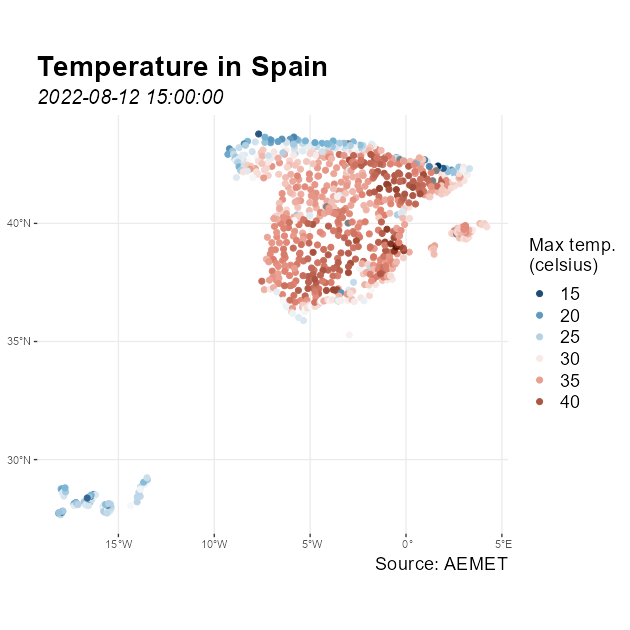
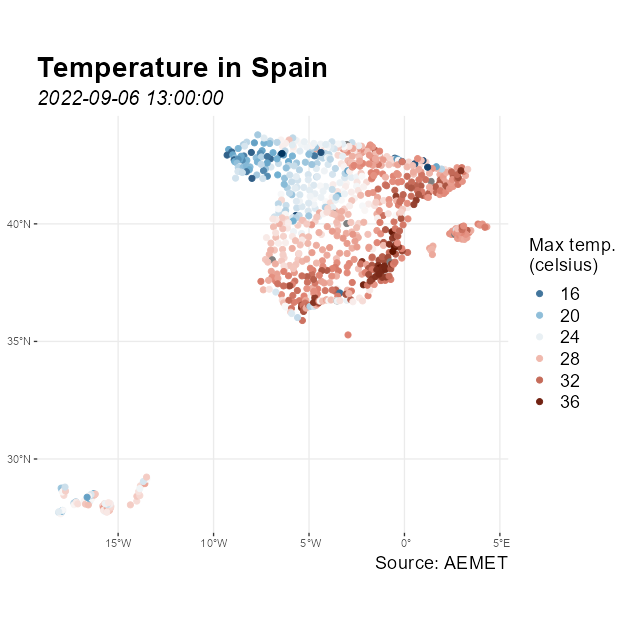
Article is back

diff --git a/README.md b/README.md
@@ -123,21 +123,20 @@ aemet_last_obs("9434")
 #> # A tibble: 24 × 25
 #>    idema   lon fint                 prec   alt  vmax    vv    dv   lat  dmax
 #>    <chr> <dbl> <dttm>              <dbl> <dbl> <dbl> <dbl> <dbl> <dbl> <dbl>
-#>  1 9434  -1.00 2022-08-12 15:00:00     0   249   5.7   2.7    79  41.7   100
-#>  2 9434  -1.00 2022-08-12 16:00:00     0   249   5.7   3.2   118  41.7    53
-#>  3 9434  -1.00 2022-08-12 17:00:00     0   249   6.4   3.6   111  41.7   120
-#>  4 9434  -1.00 2022-08-12 18:00:00     0   249   5.9   3      94  41.7   105
-#>  5 9434  -1.00 2022-08-12 19:00:00     0   249   6.9   4.2   139  41.7   150
-#>  6 9434  -1.00 2022-08-12 20:00:00     0   249   5.7   2.8   195  41.7   153
-#>  7 9434  -1.00 2022-08-12 21:00:00     0   249   5.2   2.1   165  41.7   115
-#>  8 9434  -1.00 2022-08-12 22:00:00     0   249   5.2   2.3   206  41.7   235
-#>  9 9434  -1.00 2022-08-12 23:00:00     0   249   4.9   2     296  41.7   128
-#> 10 9434  -1.00 2022-08-13 00:00:00     0   249   5.2   2.4   305  41.7   270
+#>  1 9434  -1.00 2022-09-06 13:00:00     0   249   8.4   3.8   252  41.7   235
+#>  2 9434  -1.00 2022-09-06 14:00:00     0   249   9.2   2.1   297  41.7   228
+#>  3 9434  -1.00 2022-09-06 15:00:00     0   249   9.7   5.7   250  41.7   235
+#>  4 9434  -1.00 2022-09-06 16:00:00     0   249  10.5   2.9   327  41.7   275
+#>  5 9434  -1.00 2022-09-06 17:00:00     0   249   4.8   1.8    11  41.7   303
+#>  6 9434  -1.00 2022-09-06 18:00:00     0   249   4.4   2.1   309  41.7    10
+#>  7 9434  -1.00 2022-09-06 19:00:00     0   249   3.4   1.5   163  41.7   128
+#>  8 9434  -1.00 2022-09-06 20:00:00     0   249   5     3.2   212  41.7   158
+#>  9 9434  -1.00 2022-09-06 21:00:00     0   249   4.9   1.9   142  41.7   208
+#> 10 9434  -1.00 2022-09-06 22:00:00     0   249   5.4   2.5   298  41.7   315
 #> # … with 14 more rows, and 15 more variables: ubi <chr>, pres <dbl>, hr <dbl>,
 #> #   stdvv <dbl>, ts <dbl>, pres_nmar <dbl>, tamin <dbl>, ta <dbl>, tamax <dbl>,
 #> #   tpr <dbl>, stddv <dbl>, inso <dbl>, tss5cm <dbl>, pacutp <dbl>,
 #> #   tss20cm <dbl>
-#> # ℹ Use `print(n = ...)` to see more rows, and `colnames()` to see all variable names
 ```
 
 ### Examples
@@ -172,12 +171,12 @@ knitr::kable(head(data_observation))
 
 | idema |       lon | fint                | prec | alt | vmax |  vv |  dv |      lat | dmax | ubi                 |  pres |  hr | stdvv |   ts | pres_nmar | tamin |   ta | tamax |  tpr | stddv | inso | tss5cm | pacutp | tss20cm |
 |:------|----------:|:--------------------|-----:|----:|-----:|----:|----:|---------:|-----:|:--------------------|------:|----:|------:|-----:|----------:|------:|-----:|------:|-----:|------:|-----:|-------:|-------:|--------:|
-| 9434  | -1.004167 | 2022-08-12 15:00:00 |    0 | 249 |  5.7 | 2.7 |  79 | 41.66056 |  100 | ZARAGOZA AEROPUERTO | 980.6 |  14 |   0.9 | 45.4 |    1007.6 |  40.5 | 41.5 |  41.5 |  8.7 |    21 |   60 |   44.7 |      0 |    35.8 |
-| 9434  | -1.004167 | 2022-08-12 16:00:00 |    0 | 249 |  5.7 | 3.2 | 118 | 41.66056 |   53 | ZARAGOZA AEROPUERTO | 979.9 |  17 |   1.1 | 45.1 |    1006.9 |  41.3 | 41.3 |  41.8 | 11.3 |    18 |   60 |   44.9 |      0 |    36.3 |
-| 9434  | -1.004167 | 2022-08-12 17:00:00 |    0 | 249 |  6.4 | 3.6 | 111 | 41.66056 |  120 | ZARAGOZA AEROPUERTO | 979.5 |  18 |   0.6 | 42.3 |    1006.6 |  40.1 | 40.1 |  41.3 | 11.2 |    10 |   60 |   44.4 |      0 |    36.8 |
-| 9434  | -1.004167 | 2022-08-12 18:00:00 |    0 | 249 |  5.9 | 3.0 |  94 | 41.66056 |  105 | ZARAGOZA AEROPUERTO | 979.7 |  22 |   0.6 | 39.6 |    1006.9 |  38.6 | 38.6 |  40.1 | 13.1 |    13 |   60 |   43.3 |      0 |    37.3 |
-| 9434  | -1.004167 | 2022-08-12 19:00:00 |    0 | 249 |  6.9 | 4.2 | 139 | 41.66056 |  150 | ZARAGOZA AEROPUERTO | 979.8 |  19 |   0.8 | 37.5 |    1007.1 |  37.2 | 37.8 |  38.6 | 10.2 |    11 |   10 |   41.9 |      0 |    37.6 |
-| 9434  | -1.004167 | 2022-08-12 20:00:00 |    0 | 249 |  5.7 | 2.8 | 195 | 41.66056 |  153 | ZARAGOZA AEROPUERTO | 980.3 |  19 |   0.8 | 35.9 |    1007.7 |  36.9 | 37.0 |  37.8 |  9.6 |    28 |    0 |   40.5 |      0 |    37.8 |
+| 9434  | -1.004167 | 2022-09-06 13:00:00 |    0 | 249 |  8.4 | 3.8 | 252 | 41.66056 |  235 | ZARAGOZA AEROPUERTO | 986.6 |  25 |   0.7 | 35.1 |    1014.7 |  29.8 | 31.4 |  31.4 |  9.0 |    21 |   60 |   32.0 |      0 |    27.8 |
+| 9434  | -1.004167 | 2022-09-06 14:00:00 |    0 | 249 |  9.2 | 2.1 | 297 | 41.66056 |  228 | ZARAGOZA AEROPUERTO | 985.5 |  23 |   1.0 | 36.8 |    1013.5 |  31.3 | 32.4 |  32.6 |  8.7 |    43 |   60 |   33.1 |      0 |    28.3 |
+| 9434  | -1.004167 | 2022-09-06 15:00:00 |    0 | 249 |  9.7 | 5.7 | 250 | 41.66056 |  235 | ZARAGOZA AEROPUERTO | 984.5 |  18 |   1.9 | 36.4 |    1012.4 |  32.4 | 33.9 |  34.0 |  6.2 |    15 |   60 |   33.8 |      0 |    28.9 |
+| 9434  | -1.004167 | 2022-09-06 16:00:00 |    0 | 249 | 10.5 | 2.9 | 327 | 41.66056 |  275 | ZARAGOZA AEROPUERTO | 983.9 |  21 |   1.4 | 37.0 |    1011.8 |  33.6 | 33.7 |  34.4 |  8.4 |    39 |   60 |   33.6 |      0 |    29.5 |
+| 9434  | -1.004167 | 2022-09-06 17:00:00 |    0 | 249 |  4.8 | 1.8 |  11 | 41.66056 |  303 | ZARAGOZA AEROPUERTO | 983.6 |  21 |   0.5 | 36.1 |    1011.5 |  33.4 | 33.4 |  33.7 |  8.1 |    31 |   60 |   33.2 |      0 |    29.9 |
+| 9434  | -1.004167 | 2022-09-06 18:00:00 |    0 | 249 |  4.4 | 2.1 | 309 | 41.66056 |   10 | ZARAGOZA AEROPUERTO | 983.9 |  25 |   0.5 | 32.7 |    1011.8 |  32.8 | 32.8 |  33.4 | 10.2 |    80 |   60 |   32.1 |      0 |    30.3 |
 
 ``` r
 ## Get daily/annual climatology values for a station
@@ -221,12 +220,12 @@ knitr::kable(head(data_extremes))
 
 | indicativo | nombre               | ubicacion | codigo | temMin | diaMin | anioMin | mesMin | temMax | diaMax | anioMax | mesMax | temMedBaja | anioMedBaja | mesMedBaja | temMedAlta | anioMedAlta | mesMedAlta | temMedMin | anioMedMin | mesMedMin | temMedMax | anioMedMax | mesMedMax |
 |:-----------|:---------------------|:----------|:-------|-------:|-------:|--------:|-------:|-------:|-------:|--------:|-------:|-----------:|------------:|-----------:|-----------:|------------:|-----------:|----------:|-----------:|----------:|----------:|-----------:|----------:|
-| 9434       | ZARAGOZA, AEROPUERTO | ZARAGOZA  | 023000 |   -104 |      4 |    1971 |      2 |    206 |      8 |    2016 |      7 |         29 |        1953 |          2 |         97 |        2016 |          7 |       -12 |       1957 |         2 |       135 |       2016 |         7 |
-| 9434       | ZARAGOZA, AEROPUERTO | ZARAGOZA  | 023000 |   -114 |      5 |    1963 |      2 |    255 |     27 |    2019 |      7 |         15 |        1956 |          2 |        121 |        1990 |          7 |       -30 |       1956 |         2 |       180 |       1990 |         7 |
-| 9434       | ZARAGOZA, AEROPUERTO | ZARAGOZA  | 023000 |    -63 |      9 |    1964 |      2 |    283 |     19 |    1957 |      7 |         71 |        1971 |          2 |        146 |        2001 |          7 |        19 |       1973 |         2 |       207 |       1997 |         7 |
-| 9434       | ZARAGOZA, AEROPUERTO | ZARAGOZA  | 023000 |    -24 |      3 |    1967 |      2 |    324 |      9 |    2011 |      7 |        104 |        1986 |          2 |        174 |        2014 |          7 |        54 |       1970 |         2 |       237 |       2014 |         7 |
-| 9434       | ZARAGOZA, AEROPUERTO | ZARAGOZA  | 023000 |      5 |      4 |    1967 |      2 |    365 |     29 |    2001 |      7 |        132 |        1984 |          2 |        216 |        2022 |          7 |        85 |       1984 |         2 |       282 |       2022 |         7 |
-| 9434       | ZARAGOZA, AEROPUERTO | ZARAGOZA  | 023000 |     52 |     11 |    1971 |      2 |    432 |     29 |    2019 |      7 |        182 |        1953 |          2 |        267 |        2022 |          7 |       126 |       1969 |         2 |       339 |       2022 |         7 |
+| 9434       | ZARAGOZA, AEROPUERTO | ZARAGOZA  | 023000 |   -104 |      4 |    1971 |      2 |    206 |      8 |    2016 |      7 |         29 |        1953 |          2 |         97 |        2016 |          8 |       -12 |       1957 |         2 |       135 |       2016 |         7 |
+| 9434       | ZARAGOZA, AEROPUERTO | ZARAGOZA  | 023000 |   -114 |      5 |    1963 |      2 |    255 |     27 |    2019 |      7 |         15 |        1956 |          2 |        121 |        1990 |          8 |       -30 |       1956 |         2 |       180 |       1990 |         7 |
+| 9434       | ZARAGOZA, AEROPUERTO | ZARAGOZA  | 023000 |    -63 |      9 |    1964 |      2 |    283 |     19 |    1957 |      7 |         71 |        1971 |          2 |        146 |        2001 |          8 |        19 |       1973 |         2 |       207 |       1997 |         7 |
+| 9434       | ZARAGOZA, AEROPUERTO | ZARAGOZA  | 023000 |    -24 |      3 |    1967 |      2 |    324 |      9 |    2011 |      7 |        104 |        1986 |          2 |        174 |        2014 |          8 |        54 |       1970 |         2 |       237 |       2014 |         7 |
+| 9434       | ZARAGOZA, AEROPUERTO | ZARAGOZA  | 023000 |      5 |      4 |    1967 |      2 |    365 |     29 |    2001 |      7 |        132 |        1984 |          2 |        216 |        2022 |          8 |        85 |       1984 |         2 |       282 |       2022 |         7 |
+| 9434       | ZARAGOZA, AEROPUERTO | ZARAGOZA  | 023000 |     52 |     11 |    1971 |      2 |    432 |     29 |    2019 |      7 |        182 |        1953 |          2 |        267 |        2022 |          8 |       126 |       1969 |         2 |       339 |       2022 |         7 |
 
 We can also draw a “warming stripes” graph with the downloaded data from
 a weather station. These functions returns `ggplot2` plots:
